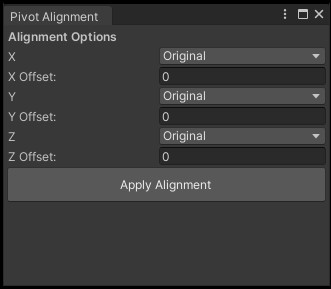
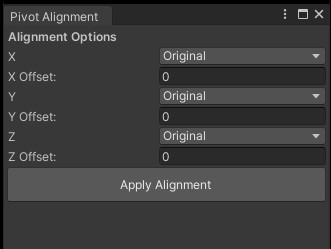
Finish Dreamscape Webpage

diff --git a/Dreamscape.html b/Dreamscape.html
@@ -45,154 +45,167 @@
 					<div id="main">
 						<div class="inner">
 							<!-- Header -->
-							<div style="text-align: center; margin-bottom: 40px;">
+							<div style="text-align: center; margin-bottom: 2em;">
 								<h1>Project Dreamscape</h1>
 								<p style="font-size: 1.2em; color: #555; margin-top: -2em;">
-										<b>A Studio Aspen Game Project </b> <br/>
+										<b>A Studio Aspen Game Project Organized by EGD </b> <br/>
 										<a href="https://store.steampowered.com/app/3569570/Project_Dreamscape/"><b>Steam Link</b></a>
 								</p>
-								<span class="image fit" style="display: block; max-width: 1500px; width: 100%; margin: 0 auto;">
-									<img src="images/DreamScape/PdTitle.jpg" alt="Dreamscape Logo" />
+								<span class="image fit" style="display: block; max-width: 1000px; width: 100%; margin: 0 auto;">
+									<img src="images/DreamScape/PdCover.png" alt="Dreamscape Logo" />
 								</span>
 							</div>
 
 							<!-- Project Overview -->
 							<p><b>Project Summary - </b> When falling asleep to dream, our protagonist is thrown into a roguelike dream where she must
-								fight off varius monsters.
+								fight off various monsters.
 							</p>
 							
-							<hr style="margin: 40px 0;" />
+							<hr style="margin: 2em;" />
 
 							<!-- Version Release Lists -->
-							<div style="margin-bottom: 40px;">
-								<h3 style="margin-bottom: 10px;">Overview of my responsibilities</h3>
-								<ul style="list-style-type: disc; text-align: left; padding-left: 35px; margin: 0 auto; max-width: 95%;">
-									<li>VFX.</li>
-									<li>Shaders.</li>
-									<li>Help advise and work with 7 other tech artists.</li>
-									<li>Rigging characters.</li>
-									<li>Level Designing.</li>
+							<div style="margin-bottom: 2em;">
+								<h3 style="margin-bottom: 0;">Overview of my responsibilities</h3>
+								<ul style="list-style-type: disc; text-align: left; padding-left: 2em; margin: 0 auto; max-width: 95%;">
+									<li>Created VFX.</li>
+									<li>Create Shaders.</li>
+									<li>Worked closely with 7 technical artists, providing support & critique.</li>
+									<li>Rigged characters.</li>
+									<li>Designed a level.</li>
 								</ul>
 							</div>
 							
 							<!-- Version Release Lists -->
-							<div style="margin-bottom: 40px;">
-								<h3 style="margin-bottom: 10px;">My Contributions</h3>
-								<ul style="list-style-type: disc; text-align: left; padding-left: 35px; margin: 0 auto; max-width: 95%;">
-									<li>Created a stylized magma shader/VFX using Unity Shader Graph.</li>
-									<li>Created a waterfall and water shader.</li>
-									<li>Painterly lighting shader.</li>
-									<li>Magma Geyser/Smoke VFX</p>
-									<li>Created a stylized fresnel effet for elite enemies.</li>
-									<li>Created a Unity prefab alignment editor tool in C#.</li>
-									<li>Created three character rigs (skeleton, skeleton warrior, doll, golem) using Rigify.</li>
-									<li>Worked closely with 7 technical artists, providing support & critique.</li>
+							<div style="margin-bottom: 2em;">
+								<h3 style="margin-bottom: 0;">My Contributions</h3>
+								<ul style="list-style-type: disc; text-align: left; padding-left: 2em; margin: 0 auto; max-width: 95%;">
+									<li>Painterly lit shader (Shader Graph).</li>
+									<li>Stylized magma pool VFX (Shader Graph).</li>
+									<li>Magma Geyser/Smoke VFX (Visual Graph / Shader Graph)</li>
+									<li>Shield VFX (Visual Graph / Shader Graph)</li>
+									<li>Stylized fresnel shader for elite enemies (Shader Graph).</li>
+									<li>Low Health Screen Border Shader (Shader Graph).</li>
+									<li>Unity prefab alignment editor tool (C#).</li>
+									<li>Four character rigs (Follower, Guide, Charger, Golem) using Rigify (Blender).</li>
+									
 								</ul>
 							</div>
+
+							<hr style="margin: 2em;" />
+
 							<!-- Image Grid Row 1 -->
-							<div style="display: flex; justify-content: space-between; gap: 10px; margin: 20px 0;">
+							<center><h3 style="margin-bottom: 0;">Painterly Lit</h3></center>
+							<div style="display: flex; justify-content: space-between; gap: 0.5em; margin: 1em 0;">
 								<div style="flex: 1; text-align: center;">
-									<img src="images/AbsMomentum/Lit.png" alt="Stylized Lit" style="width: 100%; height: auto; margin-bottom: 8px; border-radius: 4px;" />
-									<p style="margin-bottom: 0.25em;">
-										<b>Stylized Lit Shader</b>
+									<img src="images/DreamScape/AssetStylizedLit.png" alt="Stylized Lit" style="width: 100%; height: auto; border-radius: 4px;" />
+									<p style="margin-bottom: 0;">
+										Painterly Lighting Shader
 									</p>
 									<ul style="text-align: left; padding-left: 2.0em;">
-										<li>Pleasant toonish cutoffs</li>
-										<li>PBR lighting controls</li>
-										<li>Additional light support</li>
-										<li>Crosshatched SSAO</li>
+										<li>Triplanar paintbrush texture.</li>
+										<li>Diffuse stepped with paintbrush texture.</li>
 									</ul>
 								</div>
 								<div style="flex: 1; text-align: center;">
-									<img src="images/AbsMomentum/Double.png" alt="Double-Sided Stylized" style="width: 100%; height: auto; margin-bottom: 8px; border-radius: 4px;" />
-									<p style="margin-bottom: 0.25em;">
-										<b>Double-Sided Stylized Lit Shader</b>
+									<img src="images/DreamScape/AssetLit.png" alt="Normal Lit" style="width: 100%; height: auto; border-radius: 4px;" />
+									<p style="margin-bottom: 0;">
+										Default Lighting Shader
 									</p>
 									<ul style="text-align: left; padding-left: 2.0em;">
-										<li>Flipped normals for backfaces</li>
-										<li>Ideal for capes, fabric, and thin meshes</li>
-										<li>Same lighting controls as stylized lit</li>
+										<li>Standard URP lit shader</li>
 									</ul>
 								</div>
 							</div>
 							<!-- Image Grid Row 2 -->
-							<div style="display: flex; justify-content: space-between; gap: 10px; margin: 20px 0;">
+							<center><h3 style="margin-bottom: 1em;">Stylized Magma Shader</h3></center>
+							<div style="text-align: center; margin-bottom: 20px;">
+								<span class="image fit" style="max-width: 800px; width: 100%; display: inline-block; margin-bottom: 1em;">
+									<img src="images/DreamScape/MagmaSide.png" alt="Magma" style="border-radius: 4px;" />
+									<ul style="text-align: left; margin-top: 0; margin-bottom: 0; padding-left: 1.5em;">
+										<li>Depth</li>
+										<li>HDR</li>
+									</ul>
+								</span>
+							</div>
+							<!-- Image Grid Row 3 -->
+							<center><h3 style="margin-bottom: 0;">Geyser VFX</h3></center>
+							<div style="display: flex; justify-content: space-between; gap: 0.5em; margin: 1em 0;">
 								<div style="flex: 1; text-align: center;">
-									<img src="images/AbsMomentum/Foliage.png" alt="Foliage" style="width: 100%; height: auto; margin-bottom: 8px; border-radius: 4px;" />
+									<img src="images/DreamScape/Smoke.gif" alt="Smoke" style="width: 100%; height: auto; margin-bottom: 0.5em; border-radius: 4px;" />
 									<p style="margin-bottom: 0.25em;">
-										<b>Foliage Shader</b>
+										Smoke VFX
 									</p>
 									<ul style="text-align: left; margin-top: 0; padding-left: 1.5em;">
-										<li>Alpha clipping for foliage cutouts</li>
-										<li>Subsurface scattering approximation</li>
-										<li>Flipped normals for backfaces</li>
-										<li>Support for bent normals</li>
+										<li>Hints when a geyser is about to erupt.</li>
 									</ul>
 								</div>
 								<div style="flex: 1; text-align: center;">
-									<img src="images/AbsMomentum/Transparency.png" alt="Transparent" style="width: 100%; height: auto; margin-bottom: 8px; border-radius: 4px;" />
+									<img src="images/DreamScape/MagmaGeyser.gif" alt="Geyser" style="width: 100%; height: auto; margin-bottom: 0.5em; border-radius: 4px;" />
 									<p style="margin-bottom: 0.25em;">
-										<b>Transparent Stylized Lit Shader</b>
+										Magma Eruption VFX
 									</p>
 									<ul style="text-align: left; margin-top: 0; padding-left: 1.5em;">
-										<li>Standard alpha blending</li>
-										<li>Same lighting controls as stylized lit</li>
+										<li>The erupting magma that deals damage. </li>
 									</ul>
 								</div>
 							</div>
-							<!-- Image Grid Row 3 -->
-							<div style="display: flex; justify-content: space-between; gap: 10px; margin: 20px 0;">
+							<!-- Image Grid Row 4 -->
+							<center><h3 style="margin-bottom: 0;">Elite Shaders</h3></center>
+							<div style="display: flex; justify-content: space-between; gap: 0.5em; margin: 1em 0;">
 								<div style="flex: 1; text-align: center;">
-									<img src="images/AbsMomentum/Holographic.png" alt="Holographic" style="width: 100%; height: auto; margin-bottom: 8px; border-radius: 4px;" />
+									<img src="images/DreamScape/Shield.gif" alt="Shield VFX" style="width: 100%; height: auto; margin-bottom: 0.5em; border-radius: 4px;" />
 									<p style="margin-bottom: 0.25em;">
-										<b>Holographic Shader</b>
+										Shielder Shield Shader
 									</p>
 									<ul style="text-align: left; margin-top: 0; padding-left: 1.5em;">
 										<li>Fresnel outer glow effect</li>
-										<li>Animated scanline and glitch overlays</li>
-										<li>Adjustable transparency and patterns</li>
+										<li>Removable panels as shield health decreases.</li>
 									</ul>
 								</div>
 								<div style="flex: 1; text-align: center;">
-									<img src="images/AbsMomentum/Rigs.png" alt="Rigs" style="width: 100%; height: auto; margin-bottom: 8px; border-radius: 4px;" />
+									<img src="images/DreamScape/EliteCharger.jpg" alt="Elite Fresnel" style="width: 100%; height: auto; margin-bottom: 0.5em; border-radius: 4px;" />
 									<p style="margin-bottom: 0.25em;">
-										<b>5 Character Rigs</b>
+										General Elite Glow
 									</p>
 									<ul style="text-align: left; margin-top: 0; padding-left: 1.5em;">
-										<li>Game-ready deform rigs</li>
-										<li>Unity humanoid rig support</li>
-										<li>Standard naming conventions</li>
+										<li>Posterized, noisy fresnel.</li>
+										<li>HDR.</li>
 									</ul>
 								</div>
 							</div>
-
-							<hr style="margin: 40px 0;" />
-
-							<!-- Other Shaders Used -->
-							<div style="text-align: center; margin-bottom: 20px;">
-								<h3 style="text-align: left; margin-bottom: 15px;">Shaders Used From Other Projects</h3>
-								<span class="image fit" style="max-width: 800px; width: 100%; display: inline-block; margin-bottom: 20px;">
-									<img src="images/StylizedFluids/Backdrop.png" alt="Mainlight Comparison" style="border-radius: 4px;" />
-									<p>
-										<b>Stylized Fluids Shader</b><br/>
-										<a href="StylizedFluids.html"><b>Portfolio Link</b></a>
-									</p>
-								</span>
-								<span class="image fit" style="max-width: 800px; width: 100%; display: inline-block; margin-bottom: 20px;">
-									<img src="images/VolumetricLighting/MainAdd.png" alt="Mainlight Comparison" style="border-radius: 4px;" />
-									<p>
-										<b>Volumetric Lighting Shader</b><br/>
-										<a href="VolumetricLighting.html"><b>Portfolio Link</b></a>
-									</p>
-									
+							<!-- Image Grid Row 5 -->
+							<center><h3 style="margin-bottom: 1em;">Pivot Alignment Tool</h3></center>
+							<div style="text-align: center; margin-bottom: 1em;">
+								<span class="image fit" style="max-width: 800px; width: 100%; display: inline-block; margin-bottom: 1em;">
+									<img src="images/DreamScape/Pivot.gif" alt="Pivol Alignment Tool" style="border-radius: 4px;" />
+									<ul style="text-align: left; margin-top: 0; margin-bottom: 0; padding-left: 1.5em;">
+										<li>Sped up pivot alignments in project.</li>
+										<li>Provided precise pivot alignments based on the mesh renderer.</li>
+										<li>Heavily inspired by the pivot alignment tool in Houdini.</li>
+										<li>Multiple settings for each axis (Original, Center, Min, and Max).</li>
+									</ul>
 								</span>
 							</div>
-
-							<!-- End Image -->
-							<div style="text-align: center; margin-bottom: 40px;">
-								<span class="image fit" style="display: block; max-width: 1500px; width: 100%; margin: 0 auto;">
-									<img src="images/AbsMomentum/CharacterLineupCozy.jpg" alt="CharacterLineupCozy" />
-									<a href="https://store.steampowered.com/app/3810400/Absolute_Momentum/"><b>Steam Link</b></a>
+							<!-- Image Grid Row 6 -->
+							<center><h3 style="margin-bottom: 1em;">Rigs</h3></center>
+							<div style="text-align: center; margin-bottom: 1em;">
+								<span class="image fit" style="max-width: 800px; width: 100%; display: inline-block; margin-bottom: 1em;">
+									<img src="images/DreamScape/GuideRig.png" alt="Guide Rig" style="border-radius: 4px;" />
+									<ul style="text-align: left; margin-top: 0; margin-bottom: 0; padding-left: 1.5em;">
+										<li>Weight painted with intersecting and overlaying meshes.</li>
+										<li>Rigify control rig with additional bones for accessories, clothing, and extra body parts.</li>
+									</ul>
+								</span>
+							</div>
+							<!-- Image Grid Row 7 -->
+							<center><h3 style="margin-bottom: 1em;">Fullscreen Low Health Shader</h3></center>
+							<div style="text-align: center; margin-bottom: 1em;">
+								<span class="image fit" style="max-width: 800px; width: 100%; display: inline-block; margin-bottom: 1em;">
+									<img src="images/DreamScape/LowHealth.gif" alt="Low Health Shader" style="border-radius: 4px;" />
+									<ul style="text-align: left; margin-top: 0; margin-bottom: 0; padding-left: 1.5em;">
+										<li>Adjustable amount.</li>
+										<li>Dynamic.</li>
+									</ul>
 								</span>
 							</div>
 

diff --git a/TesselatedSnow.html b/TesselatedSnow.html
@@ -126,7 +126,7 @@
 							</div>
 							<div style="text-align: center; margin-bottom: 20px;">
 								<span class="image fit" style="max-width: 800px; width: 100%; display: inline-block; margin-bottom: 20px;">
-									<img src="images/TesselatedSnow/TesselatedSnowGIF.png" alt="Normal Mapping Breakdown" style="border-radius: 4px;" />
+									<img src="images/TesselatedSnow/TesselatedSnowGIF.gif" alt="Normal Mapping Breakdown" style="border-radius: 4px;" />
 								</span>
 							</div>
 							<div style="clear: both; max-width: 800px; margin: 0 auto 50px auto;">

diff --git a/AbsoluteMomentum.html b/AbsoluteMomentum.html
@@ -192,7 +192,6 @@
 							<div style="text-align: center; margin-bottom: 40px;">
 								<span class="image fit" style="display: block; max-width: 1500px; width: 100%; margin: 0 auto;">
 									<img src="images/AbsMomentum/CharacterLineupCozy.jpg" alt="CharacterLineupCozy" />
-									<a href="https://store.steampowered.com/app/3810400/Absolute_Momentum/"><b>Steam Link</b></a>
 								</span>
 							</div>
 